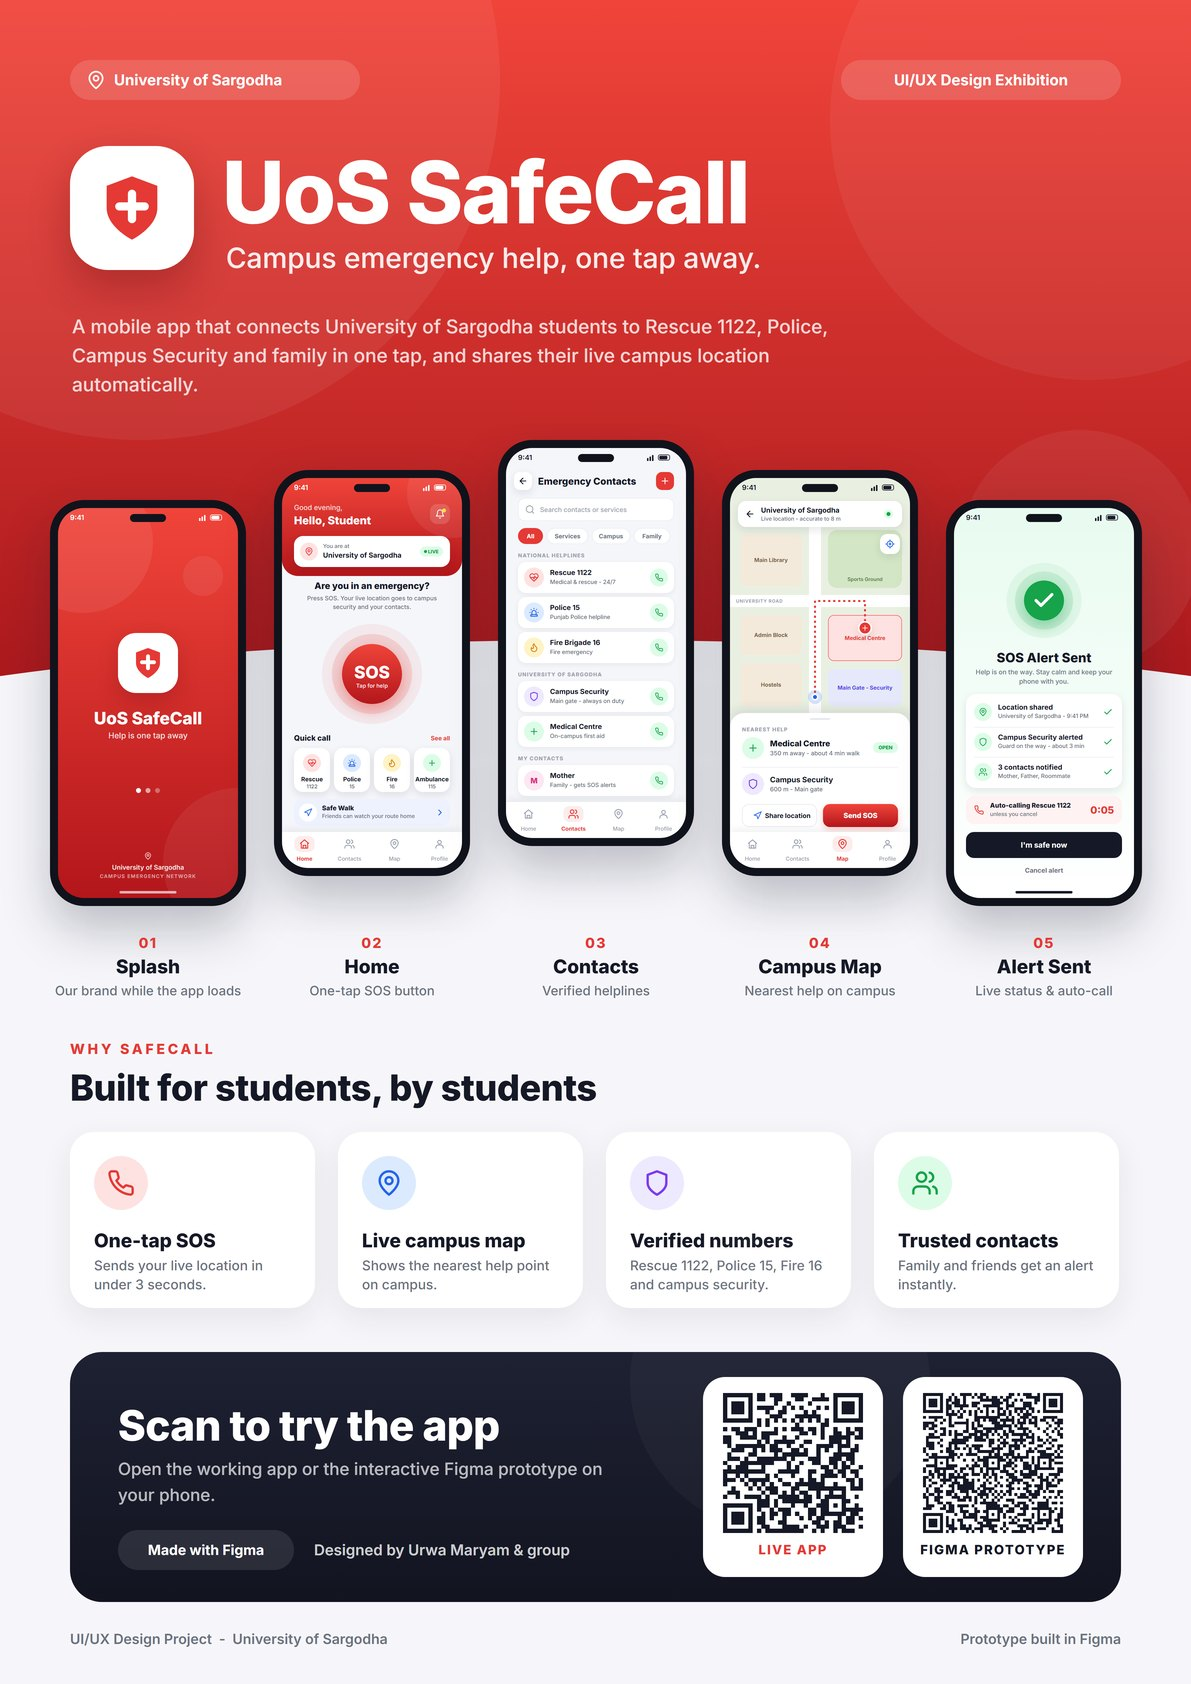
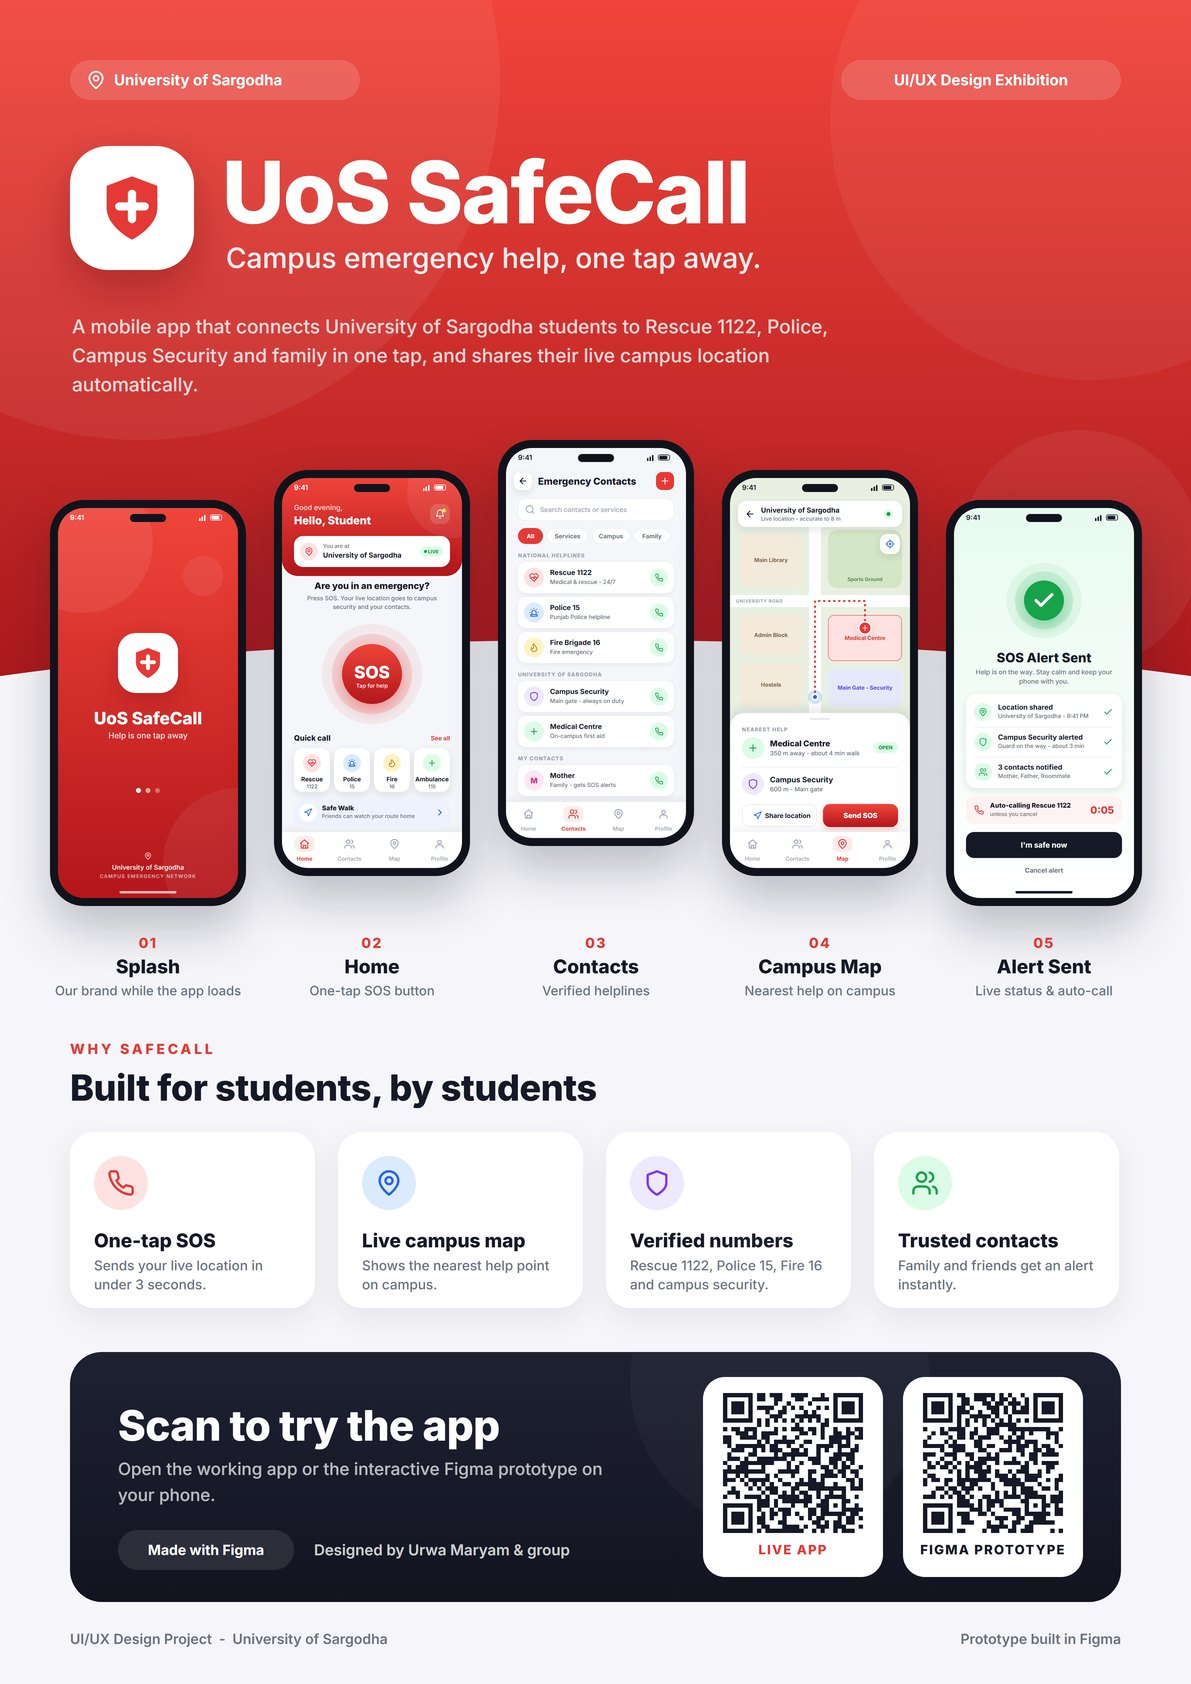
Use short Figma prototype link for easier QR scanning

Changed region(s): [[0.7767, 0.8029, 0.9009, 0.9264]]

diff --git a/index.html b/index.html
@@ -189,7 +189,7 @@ footer .wrap{display:flex;flex-wrap:wrap;gap:12px;justify-content:space-between;
 
 <footer><div class="wrap"><span>&copy; 2026 UoS SafeCall - University of Sargodha UI/UX project</span><span><a href="app.html">Open app</a> &middot; <a href="#" id="figmaFoot" target="_blank" rel="noopener">Figma prototype</a></span></div></footer>
 <script>
-var FIGMA = 'https://www.figma.com/proto/uasB5fXJMMcS6ubk2ZSvzR/UoS-SafeCall?node-id=2-2&starting-point-node-id=2%3A2&scaling=scale-down';
+var FIGMA = 'https://www.figma.com/proto/uasB5fXJMMcS6ubk2ZSvzR';
 document.getElementById('figmaBtn').href = FIGMA; document.getElementById('figmaFoot').href = FIGMA;
 </script>
 </body>

diff --git a/README.md b/README.md
@@ -5,7 +5,7 @@ This is a UI/UX Design project. It was designed in Figma and then built as a wor
 
 - **Website:** https://talhajaved957.github.io/uos-safecall/
 - **Live app:** https://talhajaved957.github.io/uos-safecall/app.html
-- **Figma prototype:** https://www.figma.com/proto/uasB5fXJMMcS6ubk2ZSvzR/UoS-SafeCall?node-id=2-2&starting-point-node-id=2%3A2&scaling=scale-down
+- **Figma prototype:** https://www.figma.com/proto/uasB5fXJMMcS6ubk2ZSvzR
 
 ## What the app does
 - One-tap **SOS**: a 5-second countdown, then Rescue 1122 is called
